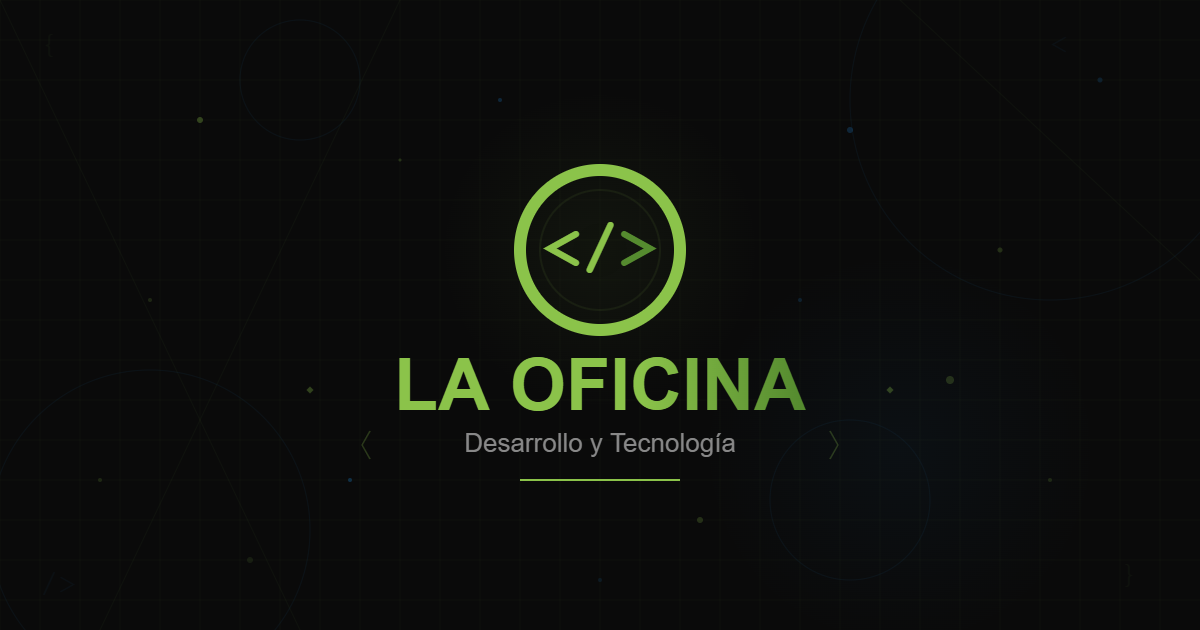
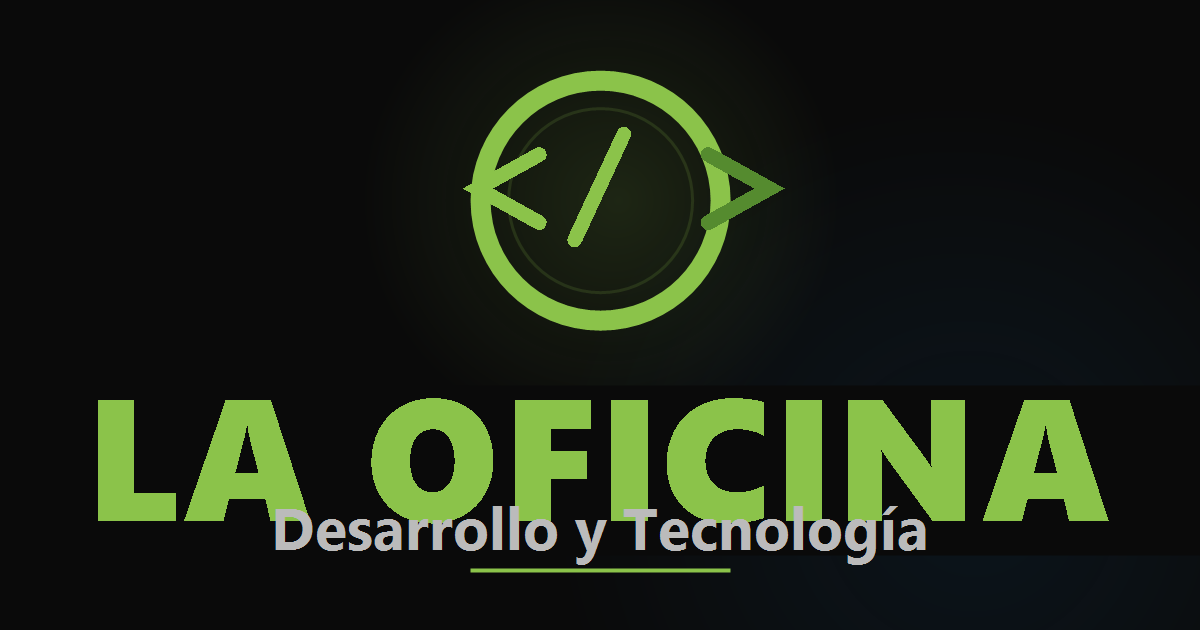
redesign OG image with huge text for WhatsApp readability

Changed region(s): [[0.0617, 0.0905, 0.925, 0.9349]]

diff --git a/og-image.html b/og-image.html
@@ -27,7 +27,7 @@
   <button class="btn btn-sec" id="favBtn">Descargar Favicon (32×32)</button>
   <p class="status" id="status"></p>
   <p class="info">
-    Imagen 1200×630px — fondo #0a0a0a<br>
+    Imagen 1200×630px — fondo #0a0a0a — texto gigante para WhatsApp<br>
     <a href="index.html">← Volver al sitio</a>
   </p>
 
@@ -35,49 +35,48 @@
   <script>
     const canvas = document.getElementById('ogCanvas');
     const ctx = canvas.getContext('2d');
-
     const W = 1200, H = 630;
 
     function drawOG() {
       ctx.fillStyle = '#0a0a0a';
       ctx.fillRect(0, 0, W, H);
 
-      const cx = 600, cy = 220, r = 90;
+      const cx = 600, cy = 200, r = 120;
 
       // Big radial glow behind logo
-      const glow = ctx.createRadialGradient(cx, cy, 0, cx, cy, r + 100);
-      glow.addColorStop(0, 'rgba(139,195,74,0.12)');
+      const glow = ctx.createRadialGradient(cx, cy, 0, cx, cy, r + 120);
+      glow.addColorStop(0, 'rgba(139,195,74,0.15)');
       glow.addColorStop(1, 'rgba(139,195,74,0)');
       ctx.fillStyle = glow;
       ctx.beginPath();
-      ctx.arc(cx, cy, r + 100, 0, Math.PI * 2);
+      ctx.arc(cx, cy, r + 120, 0, Math.PI * 2);
       ctx.fill();
 
       // Second glow bottom-right
-      const glow2 = ctx.createRadialGradient(950, 480, 0, 950, 480, 350);
-      glow2.addColorStop(0, 'rgba(33,150,243,0.06)');
+      const glow2 = ctx.createRadialGradient(950, 500, 0, 950, 500, 400);
+      glow2.addColorStop(0, 'rgba(33,150,243,0.08)');
       glow2.addColorStop(1, 'rgba(33,150,243,0)');
       ctx.fillStyle = glow2;
       ctx.beginPath();
-      ctx.arc(950, 480, 350, 0, Math.PI * 2);
+      ctx.arc(950, 500, 400, 0, Math.PI * 2);
       ctx.fill();
 
       // Logo circle
       ctx.strokeStyle = '#8BC34A';
-      ctx.lineWidth = 14;
+      ctx.lineWidth = 20;
       ctx.beginPath();
       ctx.arc(cx, cy, r, 0, Math.PI * 2);
       ctx.stroke();
 
       // Inner subtle ring
-      ctx.strokeStyle = 'rgba(139,195,74,0.1)';
-      ctx.lineWidth = 2;
+      ctx.strokeStyle = 'rgba(139,195,74,0.15)';
+      ctx.lineWidth = 3;
       ctx.beginPath();
-      ctx.arc(cx, cy, r - 22, 0, Math.PI * 2);
+      ctx.arc(cx, cy, r - 28, 0, Math.PI * 2);
       ctx.stroke();
 
       // Code symbol </>
-      ctx.font = '800 90px "Courier New", monospace';
+      ctx.font = '800 130px "Courier New", monospace';
       ctx.textAlign = 'left';
       ctx.textBaseline = 'middle';
       const fullText = '</>';
@@ -88,44 +87,36 @@
       ctx.fillStyle = '#558B2F';
       ctx.fillText('>', cx - fullWidth / 2 + leftWidth, cy);
 
-      // Semi-transparent card behind text for contrast
-      const cardY = 375;
-      const cardH = 155;
-      const cardGrad = ctx.createLinearGradient(0, cardY, 0, cardY + cardH);
-      cardGrad.addColorStop(0, 'rgba(10,10,10,0)');
-      cardGrad.addColorStop(0.15, 'rgba(10,10,10,0.85)');
-      cardGrad.addColorStop(0.85, 'rgba(10,10,10,0.85)');
-      cardGrad.addColorStop(1, 'rgba(10,10,10,0)');
-      ctx.fillStyle = cardGrad;
-      ctx.fillRect(0, cardY, W, cardH);
+      // Solid card behind text for maximum contrast
+      ctx.fillStyle = '#0a0a0a';
+      ctx.fillRect(0, 385, W, 170);
 
       // Text: LA OFICINA
       ctx.textAlign = 'center';
       ctx.textBaseline = 'middle';
 
-      ctx.font = '900 100px "Poppins", Arial, sans-serif';
-      const textGrad = ctx.createLinearGradient(cx - 220, 0, cx + 220, 0);
+      ctx.font = '900 150px "Poppins", Arial, sans-serif';
+      const textGrad = ctx.createLinearGradient(cx - 300, 0, cx + 300, 0);
       textGrad.addColorStop(0, '#8BC34A');
-      textGrad.addColorStop(0.6, '#8BC34A');
+      textGrad.addColorStop(0.5, '#8BC34A');
       textGrad.addColorStop(1, '#558B2F');
       ctx.fillStyle = textGrad;
-      ctx.fillText('LA OFICINA', cx, 435);
+      ctx.fillText('LA OFICINA', cx, 455);
 
       // Tagline
-      ctx.fillStyle = '#aaa';
-      ctx.font = '600 36px "Poppins", Arial, sans-serif';
-      ctx.fillText('Desarrollo y Tecnología', cx, 495);
+      ctx.fillStyle = '#bbb';
+      ctx.font = '600 50px "Poppins", Arial, sans-serif';
+      ctx.fillText('Desarrollo y Tecnología', cx, 525);
 
       // Bottom accent line
       ctx.strokeStyle = '#8BC34A';
-      ctx.lineWidth = 3;
+      ctx.lineWidth = 4;
       ctx.beginPath();
-      ctx.moveTo(cx - 100, 530);
-      ctx.lineTo(cx + 100, 530);
+      ctx.moveTo(cx - 130, 565);
+      ctx.lineTo(cx + 130, 565);
       ctx.stroke();
     }
 
-    // Load fonts then draw
     WebFont.load({
       google: { families: ['Poppins:400,600,700,800,900'] },
       active: drawOG,
@@ -134,15 +125,15 @@
   </script>
   <script>
     (function() {
-      const canvas = document.getElementById('ogCanvas');
-      const ctx = canvas.getContext('2d');
+      const c = document.getElementById('ogCanvas');
+      const x = c.getContext('2d');
 
       document.getElementById('downloadBtn').addEventListener('click', () => {
         drawOG();
         setTimeout(() => {
           const link = document.createElement('a');
           link.download = 'og-image.png';
-          link.href = canvas.toDataURL('image/png');
+          link.href = c.toDataURL('image/png');
           document.body.appendChild(link);
           link.click();
           document.body.removeChild(link);
@@ -155,7 +146,7 @@
         setTimeout(() => {
           const link = document.createElement('a');
           link.download = 'og-image.jpg';
-          link.href = canvas.toDataURL('image/jpeg', 0.95);
+          link.href = c.toDataURL('image/jpeg', 0.95);
           document.body.appendChild(link);
           link.click();
           document.body.removeChild(link);
@@ -184,73 +175,6 @@
       fc.beginPath();
       fc.arc(cx, cy, r - 4, 0, Math.PI * 2);
       fc.stroke();
-      fc.font = '800 11px "Courier New", monospace';
-      fc.textAlign = 'center';
-      fc.textBaseline = 'middle';
-      fc.fillStyle = '#8BC34A';
-      fc.fillText('</>', cx, cy);
-    }
-
-    drawFavicon();
-
-    document.getElementById('favBtn').addEventListener('click', () => {
-      drawFavicon();
-      const link = document.createElement('a');
-      link.download = 'favicon.png';
-      link.href = favCanvas.toDataURL('image/png');
-      document.body.appendChild(link);
-      link.click();
-      document.body.removeChild(link);
-      document.getElementById('status').textContent = '✔ favicon.png descargada';
-    });
-  </script>
-</body>
-</html>
-
-    document.getElementById('downloadBtn').addEventListener('click', () => {
-      const link = document.createElement('a');
-      link.download = 'og-image.png';
-      link.href = canvas.toDataURL('image/png');
-      document.body.appendChild(link);
-      link.click();
-      document.body.removeChild(link);
-      document.getElementById('status').textContent = '✔ og-image.png descargada';
-    });
-
-    document.getElementById('downloadJpgBtn').addEventListener('click', () => {
-      const link = document.createElement('a');
-      link.download = 'og-image.jpg';
-      link.href = canvas.toDataURL('image/jpeg', 0.92);
-      document.body.appendChild(link);
-      link.click();
-      document.body.removeChild(link);
-      document.getElementById('status').textContent = '✔ og-image.jpg descargada';
-    });
-
-    // Favicon export
-    const favCanvas = document.createElement('canvas');
-    favCanvas.width = 32;
-    favCanvas.height = 32;
-
-    function drawFavicon() {
-      const fc = favCanvas.getContext('2d');
-      const s = 32, cx = 16, cy = 16, r = 13;
-
-      fc.fillStyle = '#0a0a0a';
-      fc.fillRect(0, 0, s, s);
-
-      fc.strokeStyle = '#8BC34A';
-      fc.lineWidth = 2.5;
-      fc.beginPath();
-      fc.arc(cx, cy, r, 0, Math.PI * 2);
-      fc.stroke();
-
-      fc.strokeStyle = 'rgba(139,195,74,0.15)';
-      fc.lineWidth = 0.8;
-      fc.beginPath();
-      fc.arc(cx, cy, r - 4, 0, Math.PI * 2);
-      fc.stroke();
-
       fc.font = '800 11px "Courier New", monospace';
       fc.textAlign = 'center';
       fc.textBaseline = 'middle';